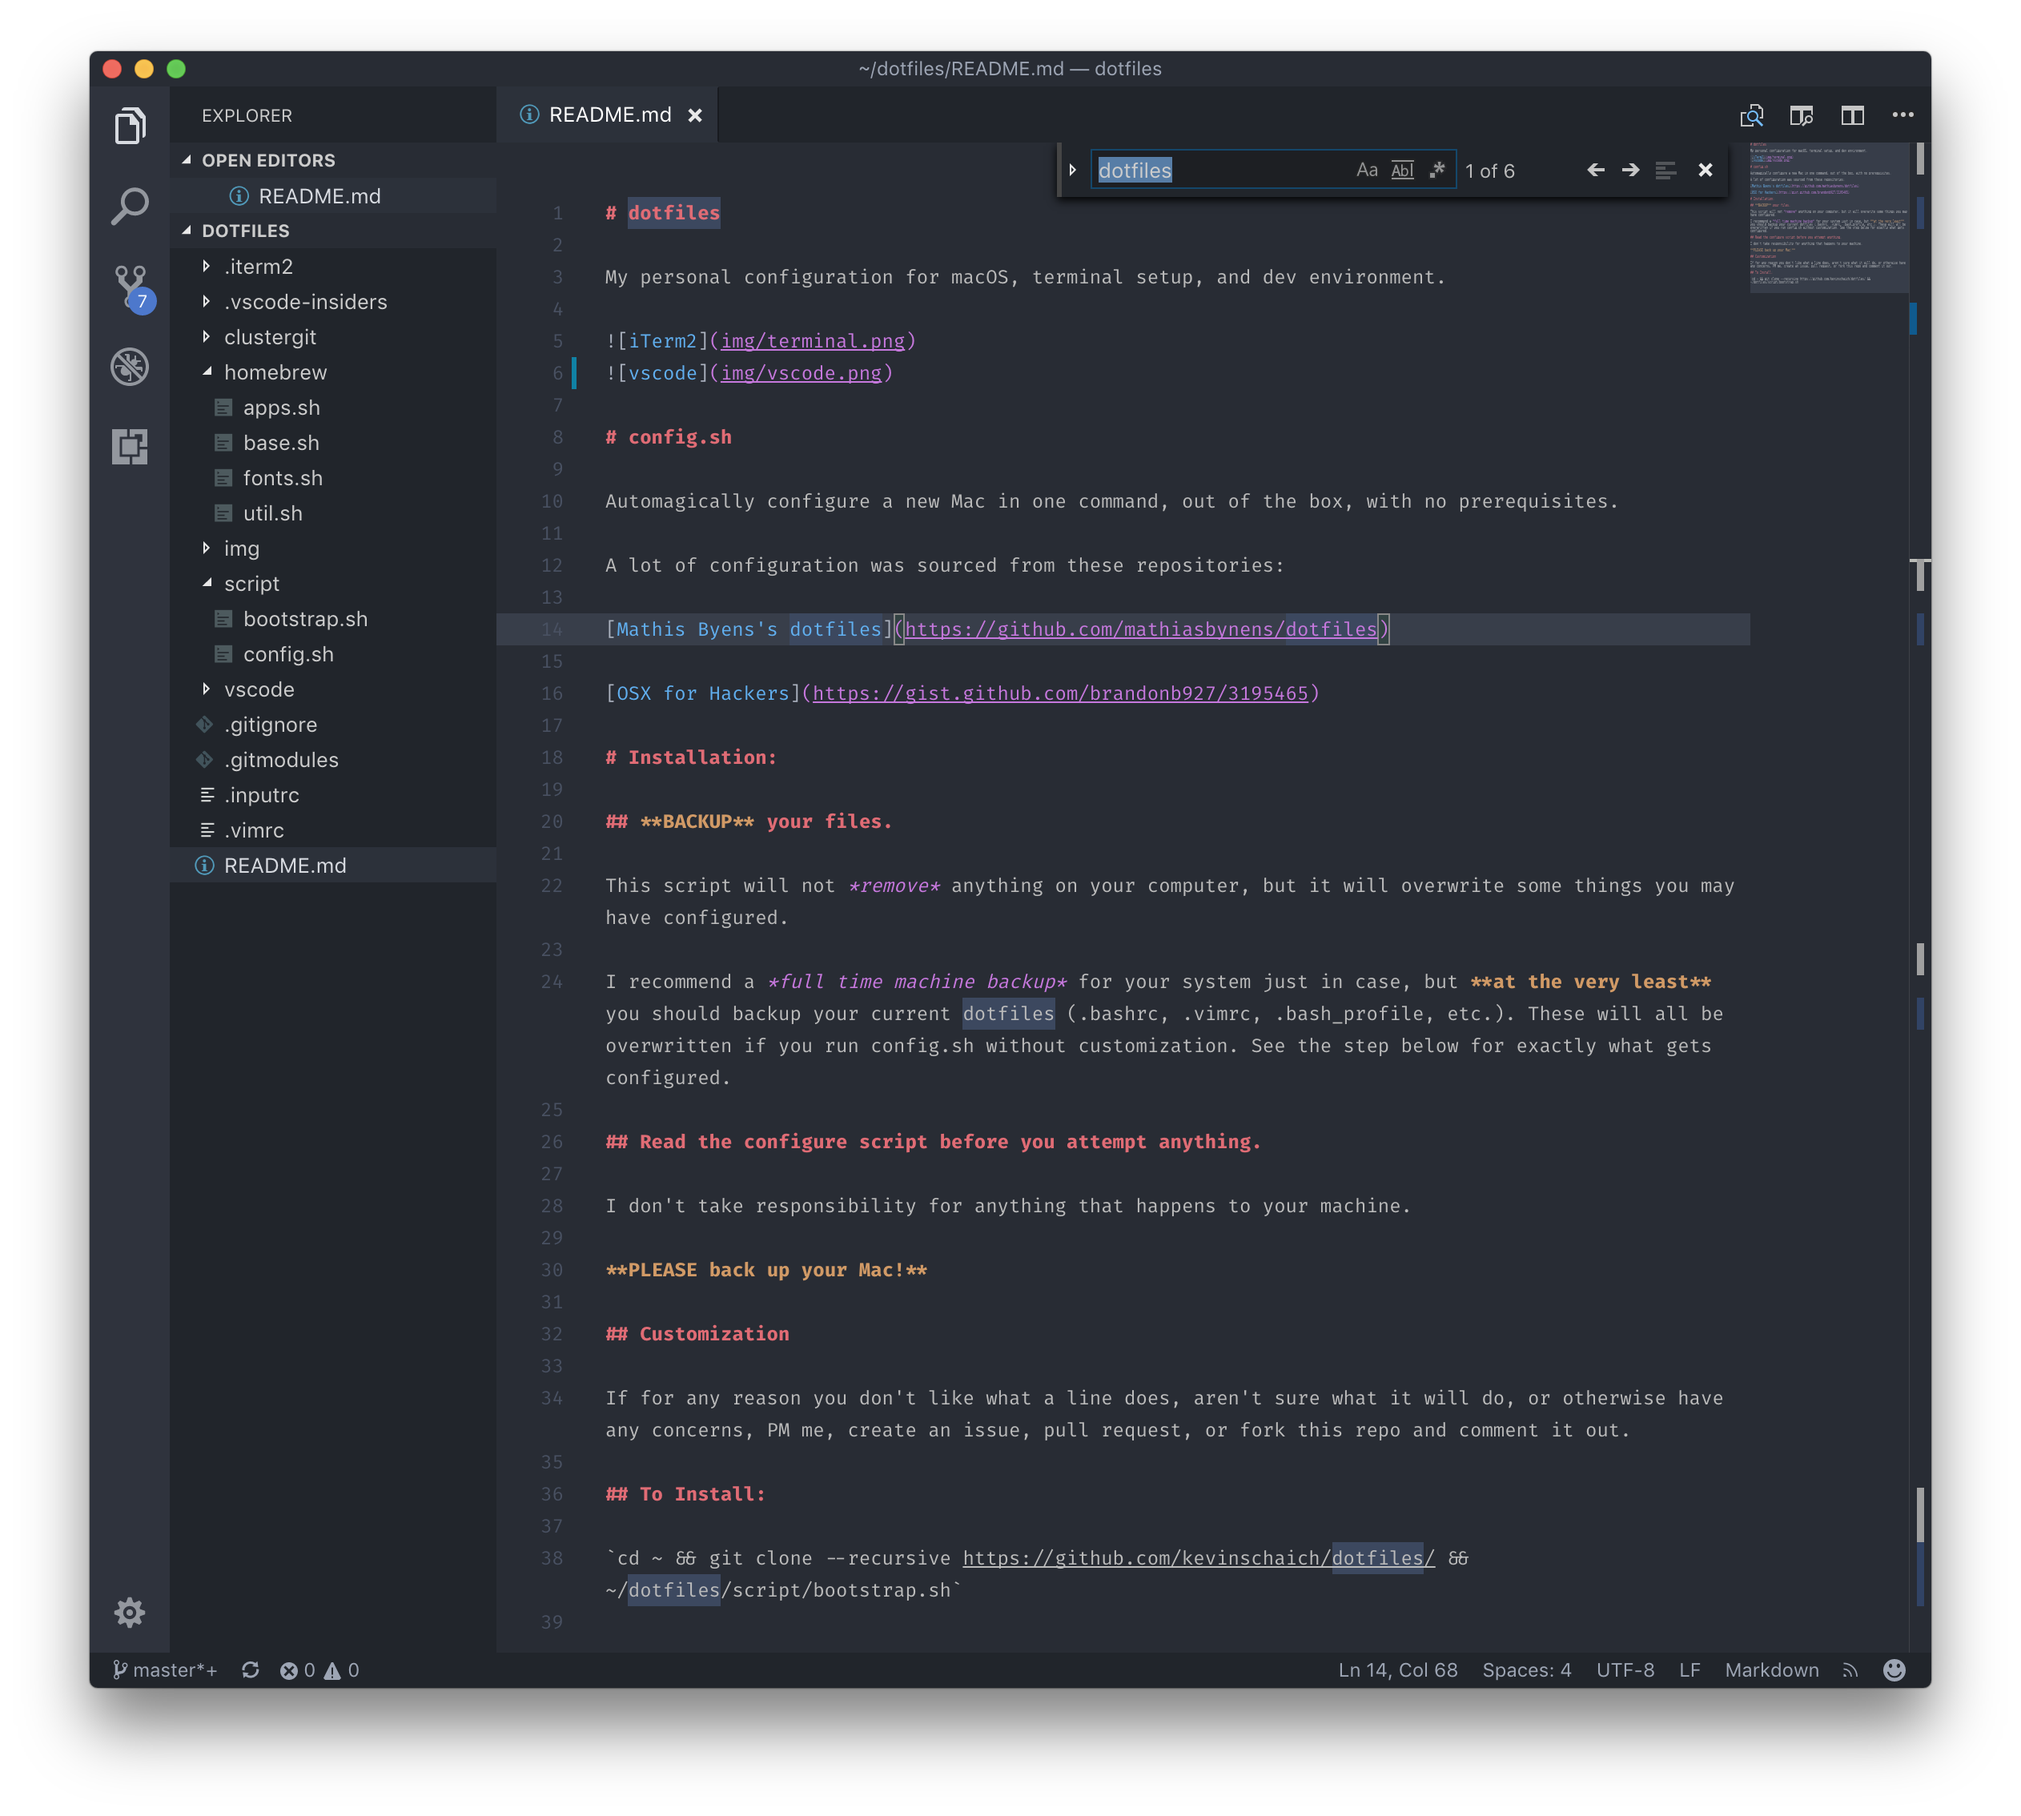
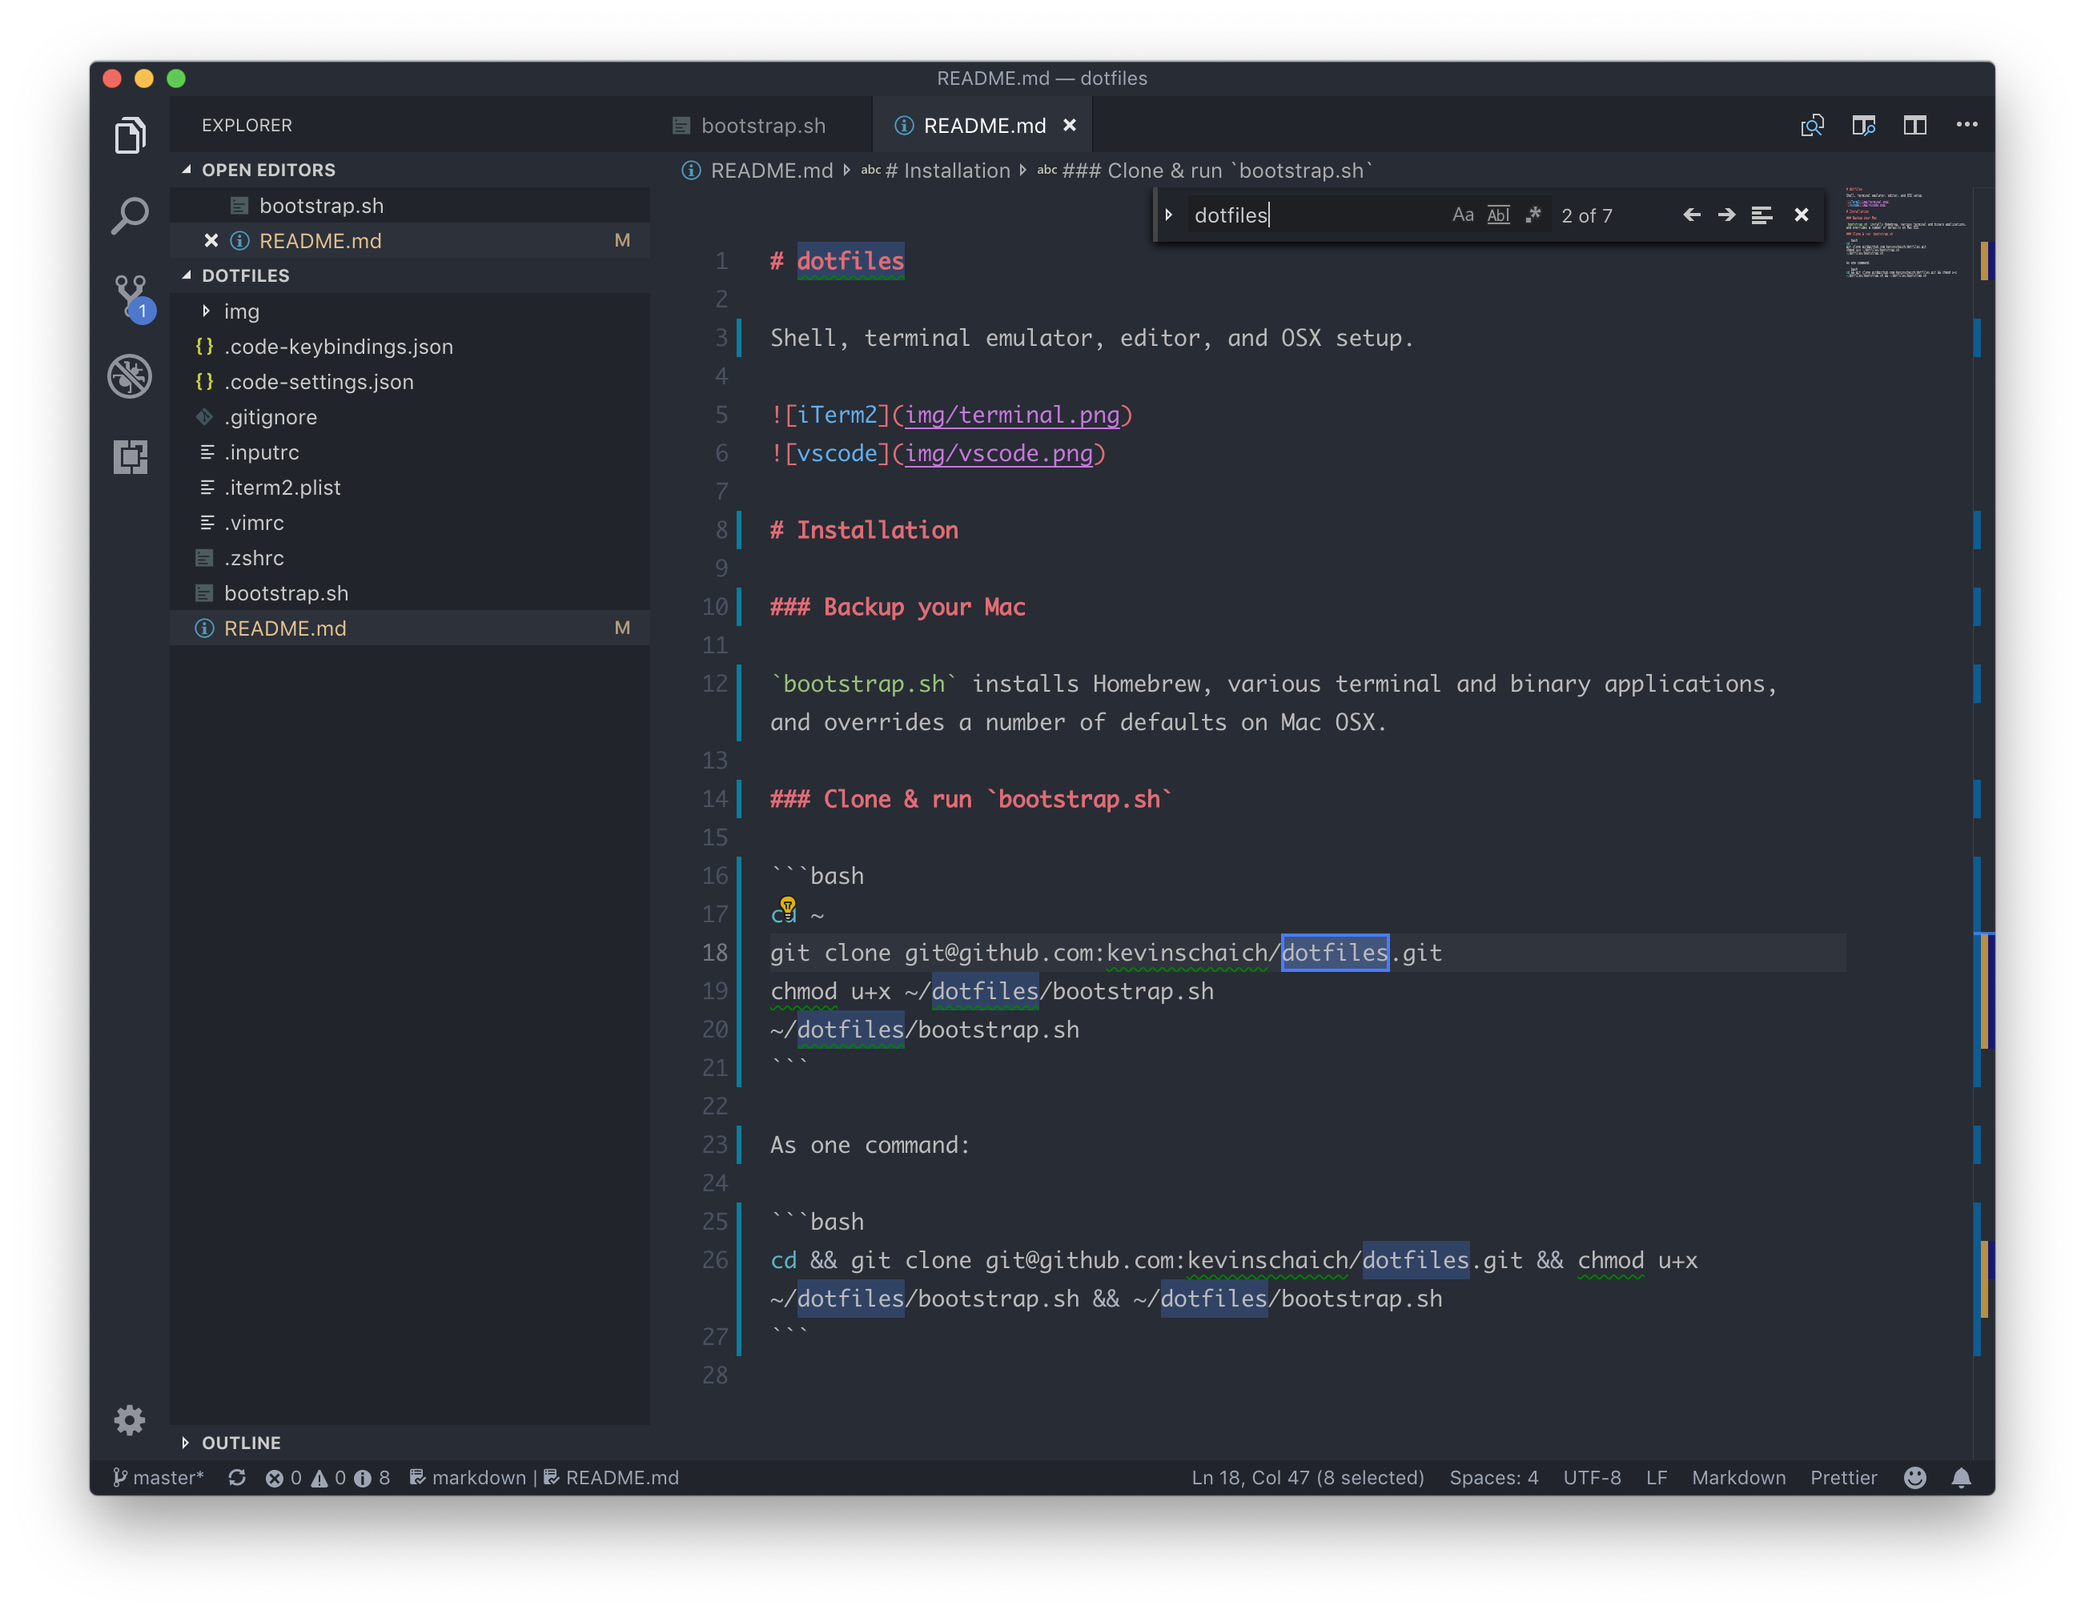
🔥

diff --git a/README.md b/README.md
@@ -1,24 +1,27 @@
 # dotfiles
 
-My personal configuration for macOS, terminal setup, and dev environment.
+Shell, terminal emulator, editor, and OSX setup.
 
 ![iTerm2](img/terminal.png)
 ![vscode](img/vscode.png)
 
-# Installation:
+# Installation
 
-## **BACKUP** your files.
+### Backup your Mac
 
-This script will not *remove* anything on your computer, but it will overwrite some things you may have configured.
+`bootstrap.sh` installs Homebrew, various terminal and binary applications, and overrides a number of defaults on Mac OSX.
 
-## Read the configure script before you attempt anything.
+### Clone & run `bootstrap.sh`
 
-**PLEASE back up your Mac!**
+```bash
+cd ~
+git clone git@github.com:kevinschaich/dotfiles.git 
+chmod u+x ~/dotfiles/bootstrap.sh 
+~/dotfiles/bootstrap.sh
+```
 
-## Customization
+As one command:
 
-If for any reason you don't like what a line does, aren't sure what it will do, or otherwise have any concerns, PM me, create an issue, pull request, or fork this repo and comment it out.
-
-## To Install:
-
-`cd ~ && git clone --recursive https://github.com/kevinschaich/dotfiles/ && ~/dotfiles/script/bootstrap.sh`
+```bash
+cd && git clone git@github.com:kevinschaich/dotfiles.git && chmod u+x ~/dotfiles/bootstrap.sh && ~/dotfiles/bootstrap.sh
+```
